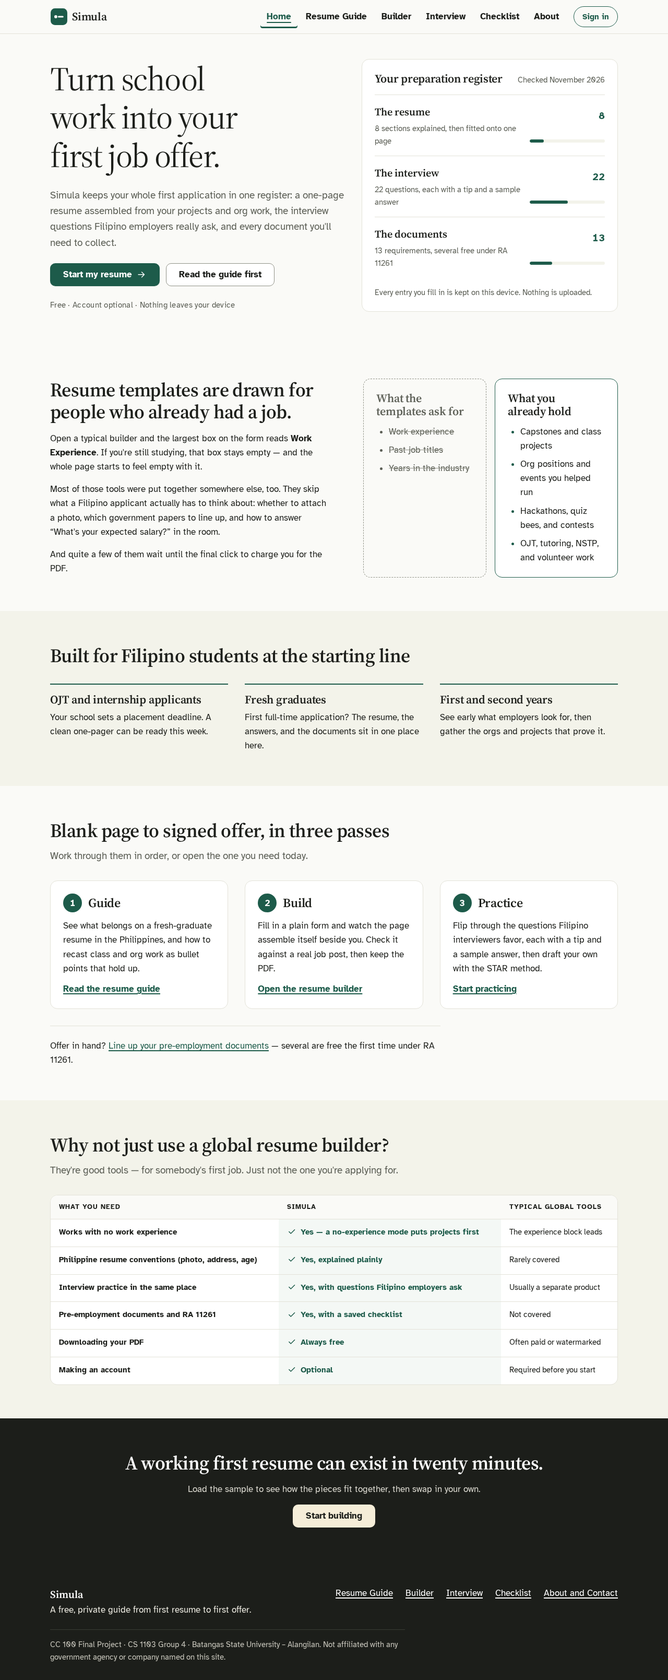
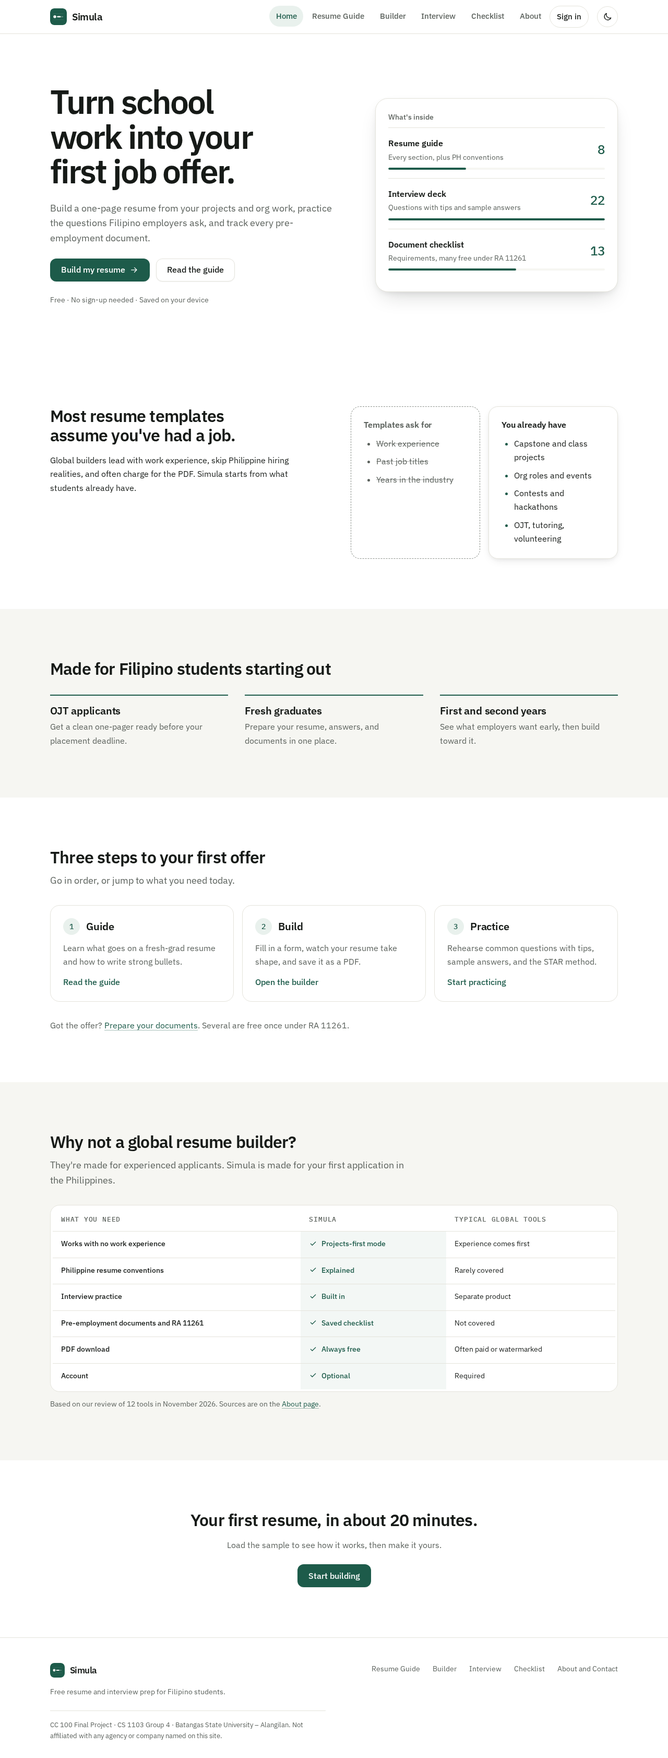
docs: update design system, team notes, credits, changelog, and screenshots

diff --git a/docs/DOCS-NOTES.md b/docs/DOCS-NOTES.md
@@ -8,73 +8,74 @@ Raw material for the written documentation and the demo. Copy, trim, and reword 
 
 | Frame | Page | User Action | Expected Result |
 |------:|------|-------------|-----------------|
-| 1 | Home (`index.html`) | Opens the site | Hero shows "From school projects to your first job offer." The resume sheet rises out of the brown envelope. Two buttons: Build my resume, Read the resume guide. |
-| 2 | Home | Scrolls down | Sees the problem ("What templates ask for" vs "What you actually have"), who it's for, the 3-step journey, and the comparison table vs global tools. |
-| 3 | Home | Clicks "Read the resume guide" | Resume Guide opens with "Resume Guide" highlighted in the nav. |
+| 1 | Home (`index.html`) | Opens the site | Hero shows "Turn school work into your first job offer." with Build my resume and Read the guide buttons. The "What's inside" card counts up to 8, 22, and 13. |
+| 2 | Home | Scrolls down | Sections fade in: the problem ("Templates ask for" vs "You already have"), who it's for, the 3-step journey, and the comparison table vs global tools. |
+| 3 | Home | Clicks "Read the guide" | Resume Guide opens with "Resume Guide" highlighted by a green pill in the nav. |
 | 4 | Resume Guide | Clicks "Philippine conventions" in the table of contents | Page jumps to the section on photo, age (RA 10911), address, and one-page length. |
 | 5 | Resume Guide | Reads Weak vs Strong bullets, clicks "Open the builder" | Builder page opens. |
 | 6 | Builder | Clicks "Load sample" | Form fills with Maria Clara Santos's sample; live preview shows the full resume. "Saved on this device" appears. |
 | 7 | Builder | Types their own name in Full name | Preview name changes letter by letter. |
-| 8 | Builder | Turns on "No experience yet" | Experience section hides; blue note appears; Projects and Organizations move above Education in the preview. |
-| 9 | Builder | Clicks "Modern" template | Preview switches to a sans-serif layout with blue name and headings. |
+| 8 | Builder | Turns on "No experience yet" | Experience section hides; a green note appears; Projects and Organizations move above Education in the preview. |
+| 9 | Builder | Clicks "Modern" template | Preview switches to a black-and-white sans-serif layout with a heavy rule under the name. |
 | 10 | Builder | Fills the Bullet helper (verb, what, tool, result) and clicks "Insert bullet" | Sentence "Developed … using …, resulting in …." is added to the chosen project and appears in the preview. |
 | 11 | Builder | Clicks "Use a sample posting" in Job-fit checker | Shows a match percentage, green chips for matched skills, red chips for missing skills, and tips. |
 | 12 | Builder | Refreshes the page | Everything typed is still there (restored from localStorage). |
 | 13 | Builder | Clicks "Download PDF" | Print dialog opens with only the resume on one page; user picks "Save as PDF". |
 | 14 | Interview | Clicks the "Behavioral" filter | Flashcard shows only behavioral questions; counter says "Question 1 of 6". |
-| 15 | Interview | Clicks "Reveal tip and answer", then "Random question" | Tip and sample answer appear; a different random question loads with the answer hidden. |
+| 15 | Interview | Clicks "Reveal tip and answer", then "Random" | Tip and sample answer appear; a different random question loads with the answer hidden. |
 | 16 | Interview | Types a STAR answer, refreshes | Answer is still in the boxes. |
 | 17 | Checklist | Ticks PSA Birth Certificate and NBI Clearance | Progress bar fills to 15%; label reads "2 of 13 documents ready"; ticked items turn green and are crossed out. |
 | 18 | Checklist | Opens "How to get it" on NBI Clearance | Shows requirements, cost, steps, and the official website link. |
 | 19 | About | Submits the contact form empty | Red error messages appear under each field; focus moves to the first error. |
 | 20 | About | Fills the form correctly and submits | Green message: "Thanks, Ana! … This is a demo, so nothing was sent." |
-| 21 | Any page (phone) | Taps "Menu", then a link | Menu opens, link goes to the page, menu closes. |
+| 21 | Any page (phone) | Taps "Menu", then a link | Menu slides down, link goes to the page, menu closes. |
+| 22 | Any page | Clicks the moon button in the header | The site switches to dark mode; the choice is remembered on every page. The resume preview stays black on white. |
 
 ---
 
 ## 2. Wireframe layout descriptions
 
-All pages share: **Header** (logo left, nav right; on phones, a "Menu" button that opens a vertical list) → **Main** → **Footer** (dark ink band: site name, links, class credit). A "Skip to main content" link appears on the first Tab press.
+All pages share: **Header** (logo left, nav right; on phones, a "Menu" button that opens a vertical list) → **Main** → **Footer** (logo, links, class credit); a sun/moon button in the header switches light and dark mode. A "Skip to main content" link appears on the first Tab press.
 
 **Home (`index.html`)**
-1. Hero: two columns on desktop (headline, lead, 2 buttons, small note | envelope illustration). Stacked on phones.
-2. Problem: two columns (text | two side-by-side lists: dashed "What templates ask for" and white "What you actually have").
-3. Audience band (kraft background): three columns with a brown top rule each.
-4. Journey: three columns, each with an illustration, numbered heading, text, link. One line below about the checklist.
+1. Hero: two columns on desktop (headline, lead, 2 buttons, small note | "What's inside" card with three rows, counts, and meters). Stacked on phones.
+2. Problem: two columns (text | two side-by-side lists: dashed "Templates ask for" and white "You already have").
+3. Audience band (light band): three columns with a green top rule each.
+4. Journey: three rounded cards, each with a numbered heading, text, and link. One line below about the checklist.
 5. Comparison band: full-width table (3 columns), source note under it.
-6. Call-to-action band (ink background): centered headline, line, yellow button.
+6. Call to action: centered headline, line, green button.
 
 **Resume Guide (`resume-guide.html`)**
-1. Page intro: title + lead | illustration.
+1. Page intro: title + lead | guide illustration in a rounded frame (desktop).
 2. Two columns on desktop: sticky "On this page" box (left, 15rem) | article (right). Stacked on phones.
-3. Article sections: definition list of resume sections; PH conventions with a kraft "PH tip" box; two-column Do / Don't cards; formula chips + four weak/strong bullet pairs; no-experience list, blue info note, and a "Ready to put it together?" box with a button.
+3. Article sections: definition list of resume sections; PH conventions as a definition list with a gold "PH tip" box; two-column Do / Don't cards; formula chips + three weak/strong bullet pairs; no-experience list, green info note, and a "Ready to build it?" box with a button.
 
 **Builder (`builder.html`)**
 1. Short intro (title + lead).
 2. Sticky toolbar under the header: Template chips, No experience switch, Load sample / Clear all / Download PDF, save status.
 3. Two columns on desktop: form (left) | sticky live preview in a grey "desk" with a white resume sheet (right). On phones, the preview comes after the form.
-4. Form: white fieldset cards for each section; repeatable entries in dashed boxes with Remove; "+ Add" buttons.
-5. Two kraft tool panels at the end of the form: Bullet helper, Job-fit checker (results with big percentage, bar, chips, tips).
+4. Form: rounded cards for each section; repeatable entries in inner boxes with Remove; "+ Add" buttons.
+5. Two tool panels at the end of the form: Bullet helper, Job-fit checker (results with big percentage, bar, chips, tips).
 
 **Interview (`interview.html`)**
-1. Page intro with two buttons | illustration.
-2. Flashcard practice: filter chips → large white flashcard (category chip, counter, big question, hidden answer, 4 buttons) → collapsible question list.
+1. Page intro with two buttons | interview illustration (desktop).
+2. Flashcard practice: filter pills + "Add your own" button → large rounded flashcard (category chip, counter, big question, hidden answer, buttons) → collapsible question list.
 3. STAR band: explanation with S/T/A/R rows | white form card with 5 fields.
-4. "Questions you'll almost surely hear": 2×2 cards.
-5. Attire band: text and list | "Bring in your brown envelope" checklist card.
-6. Online tips: five numbered steps in two columns.
+4. "Four questions to prepare first": 2×2 cards.
+5. Attire band: text and list | "Bring in a folder" checklist card.
+6. Online tips: five numbered steps in three columns.
 
 **Checklist (`checklist.html`)**
-1. Page intro with the yellow "Free under RA 11261" badge explained | envelope illustration.
+1. Page intro with the gold "Free under RA 11261" badge explained | checklist illustration (desktop).
 2. Two columns on desktop: progress box + list of 13 document cards (checkbox, name, badge, where, expandable how-to) | sticky "Get them in this order" card.
-3. RA 11261 band: what's free (card) | how to claim + not covered (two cards); kraft "Check with your barangay" note.
+3. RA 11261 band: what's free (card) | how to claim + not covered (two cards); gold "Check with your barangay" note.
 
 **About (`about.html`)**
 1. Intro: title + lead.
 2. Mission text | "What we believe" card.
-3. Team band: 2×2 list with initials avatars, name, role, one line.
+3. Team band: 2×2 cards with initials avatars, name, and role.
 4. Sources: two cards (government sources | career advice, fonts, images).
-5. Contact band: text + blue "demo form" note | form card (name, email, topic, message, button, success message).
+5. Contact band: text + green "Demo form" note | form card (name, email, topic, message, button, success message).
 
 ---
 
@@ -82,13 +83,13 @@ All pages share: **Header** (logo left, nav right; on phones, a "Menu" button th
 
 | Element | Choice | Purpose |
 |---------|--------|---------|
-| **Color Palette** | Ballpoint blue `#2445A8` (actions), ink `#1C2333` (text), bond-paper `#FBF8F3` (background), kraft brown `#C8955A` / tint `#F3E6D3` (warmth, PH tips), highlighter yellow `#FFE27A` (key facts), success green `#1C6E45`, danger red `#B42318` | Based on the "brown envelope" Filipino applicants carry: familiar, warm, trustworthy. Every text color passes WCAG AA (4.5:1 or higher). |
-| **Typography** | Headings: Bricolage Grotesque (600/700). Body: Atkinson Hyperlegible (400/700). Resume: Georgia (Classic) or Arial (Modern). | Bricolage is friendly but confident (not corporate). Atkinson was designed for legibility, good for long guides. The resume uses standard fonts so ATS systems and printers read it correctly. |
-| **Background** | Warm off-white paper, with kraft-tint bands to separate sections and a dark ink footer/CTA | Feels like paper, easier on the eyes than pure white; bands give rhythm without heavy graphics. |
-| **Buttons/Links** | Primary: solid blue, white text. Secondary: white with blue border. Quiet: blue text only. Danger: red outline. Links: blue and always underlined. All buttons at least 44px tall. | Clear hierarchy (one main action per area); underlines mean links never rely on color alone; 44px is easy to tap on phones. |
-| **Hover/Animations** | Buttons darken and lift 1px with a soft shadow; cards lift 2px; one hero animation (resume rises from the envelope); answers fade in; progress bars fill smoothly. All turned off with "reduce motion". | Shows what's clickable and gives feedback, without distracting. Respects users sensitive to motion. |
-| **Icons** | Original inline SVG line icons (check, x, info, map pin, menu, download, shuffle) and original SVG illustrations | Consistent style, sharp at any size, tiny file size, nothing to credit or license. |
-| **Mood** | Organized, warm, encouraging, local | "You already have more to put on a resume than you think." Built for a first-year student, not a corporate recruiter. |
+| **Color Palette** | Ledger green `#1D5B4A` (actions), ink `#161A17` (text), white `#FFFFFF` (page), light band `#F6F6F2`, gold `#7A5D1A` on `#F6EFDC` (RA 11261 badge), danger red `#A83226`. Dark mode: `#0F1311` page, `#E8EBE6` text, green `#74C7A6`. | Taken from the Simula logo. One accent color keeps it calm and professional. Every text color passes WCAG AA in both light and dark mode. |
+| **Typography** | IBM Plex Sans (400/500/600) for all text; IBM Plex Mono for numbers and small labels. Resume: Georgia (Classic) or Arial (Modern). | Plex is the logo's typeface: neutral, modern, very readable. Mono makes counts line up. The resume uses standard fonts so ATS systems and printers read it correctly. |
+| **Background** | White paper with light bands between sections; a near-black green in dark mode, chosen with the sun/moon switch or by the device setting | Clean and minimal; bands give rhythm without heavy graphics. Dark mode is easier on the eyes at night. |
+| **Buttons/Links** | Rounded (12px) buttons, 44px tall: green primary, outlined secondary, quiet text, red-outline danger. Pill-shaped nav links; the current page gets one soft green pill. Links are green and underlined. | Clear hierarchy (one main action per area); underlines mean links never rely on color alone; 44px is easy to tap on phones. |
+| **Hover/Animations** | Buttons lift 1px and press down slightly; cards lift on hover; sections fade up on scroll; home counters count up; the theme icon rotates; the mobile menu slides down. All turned off with "reduce motion". | Gives feedback and shows what's clickable without distracting. Respects users sensitive to motion. |
+| **Icons** | Simula logo and favicon, three illustrations (guide, interview, checklist) from the brand artifact, and inline SVG line icons | One consistent style, sharp at any size, tiny files. |
+| **Mood** | Minimal, calm, professional, encouraging | "Simula" means "beginning": a clean record of your first steps toward a job. |
 
 ---
 
@@ -102,7 +103,7 @@ Open `site/index.html` (or the live URL) before starting. In the builder, press 
 *(Scroll the home page: hero → problem lists → comparison table.)*
 
 **Speaker 2: Design and guide (1:15–2:15). Suggested: Design and CSS**
-> "Our theme is the brown envelope every applicant carries: bond-paper background, ballpoint blue for buttons, kraft brown for local tips, and highlighter yellow for the one fact you must not miss. All text passes accessibility contrast standards. We used two fonts: Bricolage Grotesque for headings and Atkinson Hyperlegible, which was designed to be easy to read."
+> "Our name, Simula, means beginning. The look comes from our logo: white paper, one ledger green for actions, and IBM Plex fonts. It's minimal on purpose, so the content stands out, and every color passes accessibility contrast checks in both light and dark mode. You can switch themes with this button."
 *(Hover a button to show the lift. Open Resume Guide, click a table-of-contents link, show the PH tip box and weak vs strong bullets. On a phone or narrow window, show the Menu button.)*
 
 **Speaker 3: Builder (2:15–3:45). Suggested: Developer, Prince Jorick**
@@ -118,12 +119,13 @@ Open `site/index.html` (or the live URL) before starting. In the builder, press 
 
 **Every page**
 - HTML: `<!DOCTYPE html>`, `<html lang="en">`, `<meta name="viewport">` for phones, `<header>`, `<nav aria-label="Main">`, `<main id="main">`, `<section>`, `<footer>`. Skip link `<a class="skip-link" href="#main">`. Current page marked with `aria-current="page"`.
-- CSS: all colors/sizes are custom properties in `:root` (section 1 of `style.css`). Mobile-first: base styles for phones, `@media (min-width: …)` for bigger screens. `.container` centers content with `max-width` and `margin-inline: auto`. `position: sticky` keeps the header on top. `:focus-visible` gives every focusable element a 3px blue outline.
-- JS: `nav.js` adds a `js` class to `<html>`; the CSS rule `.js .site-nav { display: none; }` hides the menu on phones until `.is-open` is added by the Menu button.
+- CSS: all colors/sizes are custom properties in `:root` (section 1 of `style.css`). Mobile-first: base styles for phones, `@media (min-width: …)` for bigger screens. `.container` centers content with `max-width` and `margin-inline: auto`. `position: sticky` and `backdrop-filter` make the frosted header. `:focus-visible` gives keyboard users a green focus ring (never shown on mouse clicks).
+- Dark mode: the same custom properties are redefined under `:root[data-theme="dark"]` and inside `@media (prefers-color-scheme: dark)`. `nav.js` saves the choice in `localStorage` (`simula-theme`) and sets `data-theme` on `<html>` before the page draws, so there's no flash.
+- JS: `nav.js` adds a `js` class to `<html>`; on phones the CSS hides `.js .site-nav` (opacity and `visibility: hidden`) until the Menu button adds `.is-open`, which slides the panel down.
 
-**Home**: CSS Grid for the hero (`grid-template-columns: 1.15fr 1fr`), the audience list, and the 3-step journey (`repeat(3, 1fr)`). `<ol>` for the journey because order matters. `<table>` with `<caption>`, `<thead>`, `<th scope="col">`/`scope="row"` for the comparison. Inline `<svg>` illustration with `<title>` for screen readers; `@keyframes sheet-rise` animation.
+**Home**: CSS Grid for the hero (`grid-template-columns: 1.2fr 1fr`), the audience list, and the 3-step journey (`repeat(3, 1fr)`). `<ol>` for the journey because order matters. `<table>` with `<caption>`, `<thead>`, `<th scope="col">`/`scope="row"` for the comparison. `motion.js` counts up the numbers in the "What's inside" card and fades sections in with `IntersectionObserver`.
 
-**Resume Guide**: two-column Grid layout with a `position: sticky` table of contents. `<dl>`, `<dt>`, `<dd>` for "section name + explanation". `<mark>` for the highlighter effect. `<q>` for quotes, `<code>` for file names. `.note` boxes use the kraft tint.
+**Resume Guide**: two-column Grid layout with a `position: sticky` table of contents. `<dl>`, `<dt>`, `<dd>` for "section name + explanation". `<mark>` highlights "One page." `<q>` for quotes, `<code>` for file names. `<figure class="illus">` frames the illustration. `.note` boxes use the gold tint.
 
 **Builder**: `<form>` with `<fieldset>` and `<legend>` per section; every `<input>` has a `<label for="…">`. Radio buttons styled as pill "chips" using `:has(input:checked)`. The switch is a real `<input type="checkbox" role="switch">` with a CSS track drawn by `::after`. `print.css` (loaded with `media="print"`) hides everything except `.resume` using `display: none !important`. `localStorage.setItem("resumeDraft", JSON.stringify(draft))` saves; `JSON.parse` loads, inside `try/catch`.
 

diff --git a/docs/DESIGN.md b/docs/DESIGN.md
@@ -1,90 +1,82 @@
-# Design System: OJT to Offer
+# Design System: Simula
 
-## Concept: "the brown envelope"
+## Concept
 
-Every Filipino job applicant knows the long brown envelope: the kraft folder that holds your resume, NBI clearance, and PSA birth certificate on the way to an interview. The site borrows that world: **bond-paper white** pages, **ballpoint-ink blue** for action, **kraft brown** for warmth and structure, and **highlighter yellow** for the one thing you must not miss.
+*Simula* is Filipino for "beginning." The brand comes from the Simula mark: a starting point and a meter that begins to fill, "your first entry, on the record." The site carries that idea through a clean, minimal, ledger-like look: white paper, one deep green for action, ink for text, hairline rules, and rounded corners.
 
-It should feel like a well-organized classmate's notes: clean, modern, and trustworthy, not a bank's website and not a kids' app. No purple-blue "AI gradients", no glassmorphism, no stock photos.
+It should feel calm, professional, and trustworthy, with nothing childish and no "AI gradient" decoration. Every page works in **light and dark mode**.
 
-Per-surface mode: Home is **Persuade** (convince a student to start), the guides are **Read** (easy to scan and study), and the builder, flashcards, and checklist are **Operate** (fast, predictable controls).
+Per-surface mode: Home is **Persuade** (help a student decide to start), the guides are **Read** (easy to scan), and the builder, flashcards, and checklist are **Operate** (fast, predictable controls).
 
 ## Color palette
 
-All values are CSS custom properties in `site/css/style.css` (`:root`). Contrast is measured with the WCAG 2.1 formula.
+All colors are CSS custom properties in `site/css/style.css` (section 1). Dark values replace them when the visitor picks dark mode (`html[data-theme="dark"]`) or when their device is set to dark and they haven't picked a theme. Contrast is measured with the WCAG 2.1 formula; the Playwright tests check every page in both modes.
 
-| Token | Hex | Used for | Purpose | Contrast |
-|-------|-----|----------|---------|----------|
-| `--color-ink` | `#1C2333` | Body text, headings, footer background | Near-black with a blue cast, like ballpoint ink; softer than pure black | 14.8:1 on paper |
-| `--color-ink-muted` | `#545B6B` | Secondary text, captions, helper text | Quieter text that still passes AA | 6.4:1 on paper |
-| `--color-paper` | `#FBF8F3` | Page background | Warm bond-paper white; easier on the eyes than pure white | — |
-| `--color-surface` | `#FFFFFF` | Cards, forms, the resume sheet | A "clean sheet" that lifts off the paper background | — |
-| `--color-primary` | `#2445A8` | Buttons, links, focus ring, active nav | Ballpoint blue: action and trust | 8.4:1 with white text |
-| `--color-primary-hover` | `#1B3585` | Button/link hover | Darker on hover so the change is visible | 11.1:1 with white |
-| `--color-primary-tint` | `#E8EDFA` | Selected chips, active filter, info notes | Soft blue for "selected" states | Primary text 7.2:1 |
-| `--color-kraft` | `#C8955A` | Envelope illustration, decorative rules | The brown envelope; warmth and local identity (decorative only) | Ink text 5.9:1 |
-| `--color-kraft-tint` | `#F3E6D3` | Section bands, callouts, "PH tip" boxes | Light kraft panel for local tips | Muted text 5.5:1 |
-| `--color-kraft-deep` | `#7A4E22` | Small labels on kraft, "PH tip" headings | Readable brown text | 5.8:1 on kraft tint |
-| `--color-highlight` | `#FFE27A` | `<mark>`, "free under RA 11261" badge | Highlighter pen: draws the eye to the one key fact | Ink text 12.3:1 |
-| `--color-success` | `#1C6E45` | Checked items, matched skills, progress bar | "Done" green, like a teacher's check | 5.9:1 on paper |
-| `--color-success-tint` | `#E3F2E9` | Matched-skill chips, success messages | Calm confirmation background | 5.4:1 |
-| `--color-danger` | `#B42318` | Errors, "missing" skills, reset button | Clear warning red | 6.2:1 on paper |
-| `--color-line` | `#E4DCCF` | Card borders, dividers | Soft warm hairline | — |
-| `--color-line-strong` | `#8C8576` | Form field borders | Visible input edges (3.5:1, passes the 3:1 UI-component rule) | 3.5:1 |
+| Token | Light | Dark | Used for | Purpose |
+|-------|-------|------|----------|---------|
+| `--color-bg` | `#FFFFFF` | `#0F1311` | Page background | Clean paper; a deep green-black at night |
+| `--color-band` | `#F6F6F2` | `#131815` | Alternating section bands, tool panels | Separates sections without heavy lines |
+| `--color-surface` | `#FFFFFF` | `#171C19` | Cards, inputs | Lifts content slightly off the page |
+| `--color-ink` | `#161A17` | `#E8EBE6` | Body text, headings | Soft black/white; easier on the eyes than pure black |
+| `--color-ink-muted` | `#5B615C` | `#A3AAA4` | Secondary text, hints | Quieter text that still passes AA (6.2:1 / 7.6:1) |
+| `--color-primary` | `#1D5B4A` | `#74C7A6` | Buttons, links, active nav, focus | Ledger green from the logo; lightened in dark mode to stay readable (7.9:1 / 9.7:1) |
+| `--color-primary-tint` | `#E9F1ED` | `#1A2E27` | Current page pill, chips, info notes | Soft "selected" state |
+| `--color-gold` / `--color-gold-tint` | `#7A5D1A` / `#F6EFDC` | `#E6C77F` / `#2E2716` | "Free under RA 11261" badge, PH tips | Reserved for the one fact students shouldn't miss |
+| `--color-danger` | `#A83226` | `#F2958A` | Errors, "missing" skills, destructive buttons | Clear warning (6.5:1 on white) |
+| `--color-line` / `--color-line-strong` | `#E4E3DB` / `#8B908A` | `#29302C` / `#6B746D` | Card borders / input borders | Hairlines; input borders pass the 3:1 UI rule |
 
-**Dark mode:** not included. The prompt makes it optional, and the main use scenes (classroom demo on a projector, printing a resume) favor light paper. Keeping one theme also keeps the CSS easy to explain in Q&A.
+The **resume preview is always black on white**, in both templates and both themes, because it is a printed document. A test checks that every color on the sheet is a neutral gray.
 
 ## Typography
 
-Two Google Fonts, loaded with `<link>` and `display=swap`, each with a system fallback so the site still looks right offline.
+Two Google Fonts (the brand typefaces from the Simula mark), with system fallbacks so the site still looks right offline.
 
-| Role | Font | Fallback stack | Purpose |
-|------|------|----------------|---------|
-| Headings | **Bricolage Grotesque** (600, 700) | `"Segoe UI", system-ui, sans-serif` | A friendly grotesque with a bit of personality: modern and confident without looking corporate |
-| Body, forms, UI | **Atkinson Hyperlegible** (400, 700) | `system-ui, -apple-system, "Segoe UI", Roboto, Arial, sans-serif` | Designed by the Braille Institute for maximum legibility; clear letter shapes (I/l/1, 0/O) for long guides and forms |
-| Resume preview | System fonts only: Classic = `Georgia, "Times New Roman", serif`; Modern = `Arial, Helvetica, sans-serif` | — | ATS parsers and printers handle standard fonts best; the resume looks the same everywhere |
+| Role | Font | Purpose |
+|------|------|---------|
+| Everything | **IBM Plex Sans** (400, 500, 600) | Neutral, professional, very readable; the logo's wordmark face |
+| Numbers and small labels | **IBM Plex Mono** (400, 500) | Counts, step numbers, table headers, "Weak/Strong" labels; tabular figures line up |
+| Resume preview | System fonts: Classic = Georgia; Modern = Arial | ATS software and printers handle standard fonts best |
 
-Type scale (fluid with `clamp()`): body 1.0625rem (17px), line-height 1.6, measure about 68ch. Headings: h1 `clamp(2.1rem, 5vw, 3.4rem)`, h2 `clamp(1.6rem, 3.5vw, 2.3rem)`, h3 1.375rem (22px, a 1.29× step over body text). Headings use `text-wrap: balance`.
+Scale: body 16px / 1.65 line height; h3 20px; h2 `clamp(1.5rem, 3vw, 2rem)`; h1 `clamp(2.125rem, 5vw, 3.25rem)` (home hero up to 4rem). Headings use tight negative tracking and `text-wrap: balance`.
 
-## Spacing, radius, shadow
+## Spacing, corners, shadows
 
 | Token | Value | Purpose |
 |-------|-------|---------|
-| `--space-1` … `--space-9` | 4, 8, 12, 16, 24, 32, 48, 64, 96 px | One 4px-based scale for every gap and padding; tight inside groups, generous between sections |
-| `--radius-sm` | 6px | Inputs, chips |
-| `--radius-md` | 10px | Buttons, cards |
-| `--radius-lg` | 16px | Large panels, hero illustration frame |
-| `--shadow-sm` | `0 1px 2px rgb(28 35 51 / .06), 0 1px 1px rgb(28 35 51 / .04)` | Resting cards: barely lifted paper |
-| `--shadow-md` | `0 6px 16px -4px rgb(28 35 51 / .12), 0 2px 4px rgb(28 35 51 / .06)` | Hover and the resume sheet: paper lifted off the desk |
+| `--space-1` … `--space-9` | 4, 8, 12, 16, 24, 32, 48, 64, 96 px | One 4px scale for every gap; tight inside groups, generous between sections |
+| `--radius-sm` / `md` / `lg` / `xl` | 8 / 12 / 18 / 24 px | Small controls / buttons and inputs / cards / hero cards and flashcard |
+| `--radius-pill` | 999px | Nav links, chips, filter pills, header icon buttons |
+| `--shadow-sm` / `md` / `lg` | soft, offset, low opacity | Resting cards / hover / the hero card and flashcard |
 
-Shadows always have a vertical offset and soft blur (like paper on a desk), never a colored glow.
-
-## Buttons and links
+## Buttons, links, navigation
 
 | Element | Style | Purpose |
 |---------|-------|---------|
-| Primary button (`.btn-primary`) | Ink-blue fill, white text, 10px radius, min-height 44px | The one main action per area (Start building, Download PDF) |
-| Secondary button (`.btn-secondary`) | White fill, ink-blue 1.5px border and text | Supporting actions (Load sample, Add entry) |
-| Quiet button (`.btn-quiet`) | No border, ink-blue text, underline on hover | Low-priority actions (Remove, Reveal) |
-| Danger button (`.btn-danger`) | White fill, red border and text | Destructive actions (Clear all), always confirmed |
-| Links | Ink blue, underlined, 0.18em underline offset | Always underlined in body text so links never rely on color alone |
+| Primary button | Green fill, white text (dark text in dark mode), 12px corners, 44px tall | One main action per area |
+| Secondary button | Surface fill, hairline border | Supporting actions |
+| Quiet button | Green text only, tint on hover | Low-priority actions (Random, Edit) |
+| Danger button | Red outline | Destructive actions, always confirmed |
+| Links | Green, thin underline that strengthens on hover | Links never rely on color alone |
+| Header | Sticky, frosted glass, logo left, pill-shaped nav links, round theme switch | The current page gets **one** soft green pill: no underline, no extra bar, and no focus ring after a mouse click |
 
-## Hover, focus, and motion
+## Motion and micro-interactions
 
-- **Hover:** buttons darken and lift 1px with `--shadow-md`; cards lift 2px. Duration 160ms, `cubic-bezier(.2,.8,.2,1)` (fast ease-out).
-- **Focus:** a 3px ink-blue outline with 2px offset on every focusable element (`:focus-visible`). Never removed.
-- **Signature motion:** on the home page, the resume sheet slides up out of the brown envelope once on load. It is the only entrance animation on the site.
-- **Feedback motion:** checklist progress bar fills smoothly; flashcard answers fade in.
-- **Reduced motion:** `@media (prefers-reduced-motion: reduce)` turns off all transitions and the envelope animation; content shows in its final state.
+- Buttons lift 1px on hover and settle (scale 0.98) when pressed; arrow icons nudge forward.
+- Cards and journey steps lift 2px on hover; register rows highlight their title.
+- Sections fade up as they scroll into view; the home "What's inside" counts up and its meters fill.
+- The theme switch rotates between sun and moon, and colors fade for 300ms when the theme changes.
+- The mobile menu's two lines turn into a cross, the panel slides down, and links rise in one after another.
+- Revealed answers, new entries, and success messages rise in gently.
+- **Reduced motion:** with `prefers-reduced-motion`, all of this is instant.
+
+Focus: a 2px green outline on buttons and links, and a 3px soft green ring on text fields, shown only for keyboard users (`:focus-visible`).
 
 ## Icons and images
 
-- **Icons:** original inline SVGs drawn on a 24px grid with a 1.75px rounded stroke (Lucide-like style, but authored for this site). Decorative icons have `aria-hidden="true"`; icon-only buttons have an `aria-label`. No emoji as icons.
-- **Illustrations:** original SVGs in `site/images/` (brown envelope with resume, interview chat bubbles, document checklist, team avatars as initials). No external images, so nothing needs a photo credit. All SVGs are hand-written and small (under 5 KB each).
-
-## Browser details
-
-Text selection uses the highlighter yellow; the caret and checkboxes use ink blue (`accent-color`, `caret-color`); scrollbars are tinted to match. Numbers in progress and match percentages use `font-variant-numeric: tabular-nums`.
+- **Logo and favicon:** the Simula mark from the brand artifact (`site/images/logo.svg`; simplified `favicon.svg` for small sizes).
+- **Illustrations:** `guide.svg`, `interview.svg`, `checklist.svg` from the same artifact, shown in rounded frames on the page intros. The frames stay light in dark mode so the drawings keep their paper colors.
+- **Icons:** inline SVG line icons (1.75px stroke). Decorative icons are `aria-hidden`; icon-only buttons have labels.
 
 ## Overall mood
 
-Organized, warm, and encouraging: "you already have more to put on a resume than you think." Local without being kitschy: the envelope, bond paper, and highlighter are things every Filipino student actually uses, not flags or jeepney clip art.
+Minimal, calm, and professional, like a well-kept record of your first steps. Local without being kitschy.

diff --git a/CHANGELOG.md b/CHANGELOG.md
@@ -2,6 +2,25 @@
 
 All notable changes to this project are documented here. The format follows [Keep a Changelog](https://keepachangelog.com/en/1.1.0/), and the project uses [Semantic Versioning](https://semver.org/).
 
+## [1.1.0] - 2026-11-10
+### Added
+- Light and dark mode with a sun/moon toggle in the header. The choice is saved per device; with no choice the site follows the device setting. Colors fade on switch, and the switch is instant with reduced motion.
+- Simula brand assets from the logo artifact: primary mark, simplified favicon, and new guide, interview, and checklist illustrations on the page intros.
+- Optional email + password sign-in page (Supabase), inert until configured.
+- Visitor-written interview cards (add, edit, delete), saved on the device.
+- Tests for the theme toggle, WCAG AA contrast in dark mode, the single current-page highlight, and a black-and-white resume preview.
+
+### Changed
+- Renamed the site to **Simula** ("beginning").
+- Redesigned every page: minimal layout, IBM Plex Sans and Mono, rounder corners, calmer cards, and polished hover, press, reveal, and menu animations.
+- Rewrote the copy on every page to be shorter and clearer (about 26% fewer words) without dropping any topic.
+
+### Fixed
+- Header: the current page showed two lines (an underline plus a bar), and clicked links kept a focus ring. It now shows one soft pill, and focus rings appear only for keyboard users.
+- Resume live preview is black and white again in both templates (the Modern template had turned green).
+- Edit and Delete buttons no longer show on built-in interview cards (the `hidden` attribute now always wins).
+- Grammar and awkward phrasing across pages.
+
 ## [1.0.0] - 2026-11-10
 ### Added
 - Team handoff notes: storyboard, wireframe descriptions, theme details, 5-minute demo script for 4 speakers, and HTML/CSS Q&A notes (`docs/DOCS-NOTES.md`).
@@ -49,6 +68,7 @@ All notable changes to this project are documented here. The format follows [Kee
 - Saved build prompt and planning summary (`docs/inputs/`).
 - `.gitignore`.
 
+[1.1.0]: https://github.com/PrinceJorick/itc-final-project/releases/tag/v1.1.0
 [1.0.0]: https://github.com/PrinceJorick/itc-final-project/releases/tag/v1.0.0
 [0.5.0]: https://github.com/PrinceJorick/itc-final-project/releases/tag/v0.5.0
 [0.4.0]: https://github.com/PrinceJorick/itc-final-project/releases/tag/v0.4.0

diff --git a/README.md b/README.md
@@ -93,7 +93,7 @@ npm run screenshots      # refreshes docs/screenshots/
 
 - **Stack:** HTML5, one CSS file (custom properties, Flexbox, Grid, media queries), vanilla JavaScript, `localStorage`. No frameworks, build tools, or backend. Google Fonts is the only external request the site makes as submitted; optional Supabase accounts add a CDN script only when configured by hand.
 - **Design and build skills:** ui-ux-pro-max (design system generation), impeccable (product context, design direction, craft checks, contrast hook, finish review), web research for competitors, title checks, and PH government facts; Playwright for testing and screenshots.
-- **Visual direction:** "The Trusted Ledger" — porcelain ground, register-green action color, serif display type over a hyperlegible sans body, hairline rules, tabular numerals, and gold reserved for the RA 11261 free-document mark. Full detail in [docs/DESIGN.md](docs/DESIGN.md).
+- **Visual direction:** minimal Simula brand: white paper, ledger-green actions, IBM Plex Sans and Mono, rounded corners, light and dark mode with a header toggle. Full detail in [docs/DESIGN.md](docs/DESIGN.md).
 
 ## Documentation for the team
 
@@ -106,8 +106,8 @@ npm run screenshots      # refreshes docs/screenshots/
 ## Credits
 
 - Content sources: see [SOURCES.md](SOURCES.md) and the About page.
-- Fonts: Source Serif 4 and Atkinson Hyperlegible (Google Fonts, SIL Open Font License).
-- Logo, favicon, and icons: original work for this project. No stock images.
+- Fonts: IBM Plex Sans and IBM Plex Mono (Google Fonts, SIL Open Font License).
+- Logo, favicon, illustrations, and icons: original work for this project (Simula brand artifact). No stock images.
 - Team: Prince Jorick Fajutagana, Alloysia Mae, Elise Guerra, Sherwin Dollente Jr.
 
 Not affiliated with any government agency or company named on this site. Fees and procedures change, so always confirm with the agency.

diff --git a/SOURCES.md b/SOURCES.md
@@ -35,5 +35,5 @@ Interview questions, tips, and sample answers were written by the team. Sample p
 
 ## Fonts, images, icons
 
-- [Bricolage Grotesque](https://fonts.google.com/specimen/Bricolage+Grotesque) and [Atkinson Hyperlegible](https://fonts.google.com/specimen/Atkinson+Hyperlegible), Google Fonts, SIL Open Font License 1.1.
-- All illustrations (`site/images/*.svg`), the logo, and inline icons are original work made for this project. No stock or third-party images are used.
+- [IBM Plex Sans](https://fonts.google.com/specimen/IBM+Plex+Sans) and [IBM Plex Mono](https://fonts.google.com/specimen/IBM+Plex+Mono), Google Fonts, SIL Open Font License 1.1.
+- All illustrations (`site/images/*.svg`), the Simula logo, and inline icons are original work made for this project. No stock or third-party images are used.
